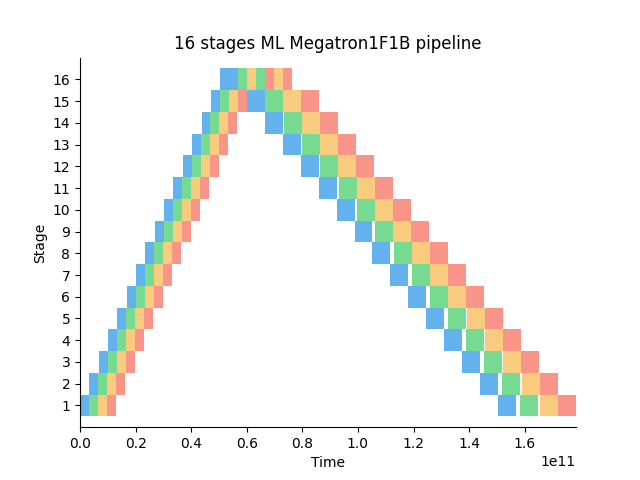
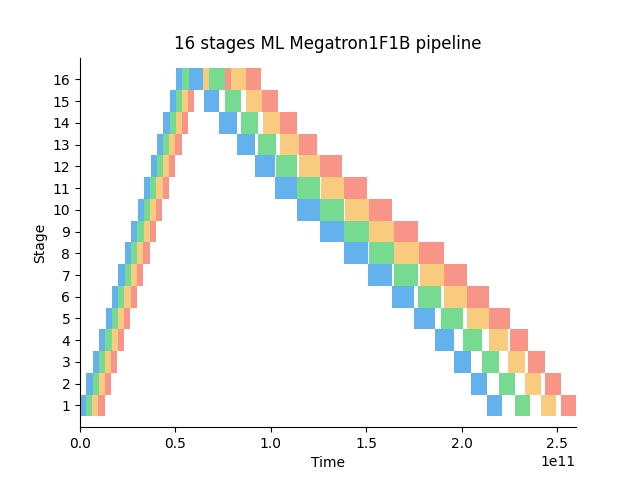
fix some bugs

diff --git a/simpy/tile_dataflow.py b/simpy/tile_dataflow.py
@@ -1,12 +1,9 @@
 import math
 import simpy
-from  util import BaseEnum as Enum
-from typing import List,Optional,Union
+import numpy as np
+from typing import List,Union
 from util import *
 from wafer_device import Wafer_Device as wd
-
-
-import numpy as np
 from ML import *
 from comp_graph import CompGraph,OpNode
 from op_pd import CommOp
@@ -15,7 +12,7 @@ class Tile():# for compute process
     def __init__(self,env,tile_name='tx8',
                  sram_capacity_MB=3,macs=4000,freq_GHz=1,\
                  with_dram=True,dram_bw_GB=12288/16/8,dram_capacity_GB=6/16,
-                    opt=OPTIMIZER,ZeRO=ZeRO_strategy.ZeRO_2) -> None:
+                    opt=OPTIMIZER.ADAM,ZeRO=ZeRO_strategy.ZeRO_2) -> None:
         #info
         self.tile_name=tile_name
 
@@ -158,11 +155,10 @@ class Tile():# for compute process
         self.device_id=device
         self.op_list=op_list
         self.noc=wd1
-
         acc_op_wsg_size=0
         acc_op_intra_act_size=0
         #acc_op_output_act_size=0 #mulc(op_list[-1].i_shape) no store
-        print(len(op_list))
+
         dataflow0=dataflow.WS
         sram1=store_strategy.cache
         recomputes2=recompute_strategy.none
@@ -172,7 +168,6 @@ class Tile():# for compute process
         [pipe_strategy,info1,info2]=stage_info
         input_act_size_m=mulc(op_list[0].i_shape)/1000/1000
         #ouput_act_size=mulc(op_list[-1].o_shape)
-
         #dram/sram allocation for each op with parallism  and recompute strategy
         # @fangjh21.20230602
         for op in op_list:
@@ -180,7 +175,7 @@ class Tile():# for compute process
             temp=np.array(op.w_s_g_size_m)*np.array(self.wsg_store_bytes)
             acc_op_wsg_size+=mulc(temp.tolist())+0 #TODO 计算所需冗余空间
             acc_op_intra_act_size+=op.intra_act_size_m*self.act_bytes
-            
+            #print('1',acc_op_intra_act_size)
         act_times_coe=0
         if pipe_strategy==pipe_strategy.GPipe:
             act_times_coe=info1
@@ -194,7 +189,6 @@ class Tile():# for compute process
             raise NotImplementedError
         mem_occupy_by_wsg=acc_op_wsg_size
         mem_occupy_by_act_stage=act_times_coe*acc_op_intra_act_size
-
         sram_size=self.sram_capacity_m #MB
         tile_dram_size=self.tile_dram_capacity_m*1000 #MB 
 
@@ -247,12 +241,12 @@ class Tile():# for compute process
                 edgedram4=store_strategy.ACT_weight
 
         self.map_ana=[dataflow0,sram1,recomputes2,tiledram3,edgedram4]
+        print(self.map_ana)
         '''
         self.analysis_forward_process(self.env,map_ana,device,op_list,wd1)
         self.analysis_backward_process(self.env,map_ana,device,op_list,wd1)
         self.analysis_weight_update_process(self.env,map_ana,device,op_list,wd1)
         '''
-        #print(map_ana)
         return  self.map_ana
     
     def execute_forward_process(self):
@@ -260,7 +254,6 @@ class Tile():# for compute process
             assert(len(param)==11)
             #param=[wt_load,act_fetch,wt_load,act_fetch,Zero_comm,comp,intra_act_store,out_act_store,intra_act_store,out_act_store]
             event_list=[]
-            #index_of_nooverlap_comm=-1
             if(param[0]!=None):
                 event_list.append(self.noc.dram_read_group_process(access_size_MB=param[0]*self.buffer_bytes*len(self.device_id),group_id=self.device_id,task_id=event.wt_load,multicast=False))
             if(param[1]!=None):

diff --git a/simpy/pipeline.py b/simpy/pipeline.py
@@ -104,9 +104,9 @@ class Stages():
             if self.pipe_type==pipe_strategy.GPipe:
                 self.stages[i].stage_info=[self.pipe_type,self.mini_batch,self.micro_batch]
             elif self.pipe_type==pipe_strategy.Megatron1F1B:
-                self.stages[i].stage_info=[self.pipe_type,i+1,stages_len]
+                self.stages[i].stage_info=[self.pipe_type,i,stages_len]
             elif self.pipe_type==pipe_strategy.Cerebras:
-                self.stages[i].stage_info=[self.pipe_type,i+1,stages_len]
+                self.stages[i].stage_info=[self.pipe_type,i,stages_len]
             else:
                 raise NotImplementedError
             self.stages[i].tile.mapping_analysis(self.stages[i].stage_info,self.stages[i].cur_core_id,self.stages[i].op_list,self.noc)
